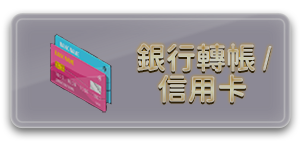
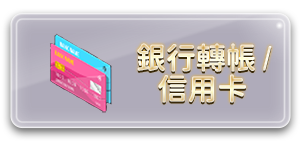
temp6

diff --git a/components/home/RechargeBtns.tsx b/components/home/RechargeBtns.tsx
@@ -14,11 +14,13 @@ function RechargeBtns() {
         <a href="#" onClick={() => toAuthRoute('/recharge-fun')}>
           <img
             src="images/btn_bank.png"
+            data-active-src="images/btn_bank_active.png"
             alt=""
             className="img-responsive center-block hidden-xs"
           />
           <img
             src="images/btn_phone_bank.png"
+            data-active-src="images/btn_phone_bank_active.png"
             alt=""
             className="img-responsive center-block hidden visible-xs"
           />
@@ -29,11 +31,13 @@ function RechargeBtns() {
         <a href="#" onClick={() => toAuthRoute('/recharge-mc?p=1')}>
           <img
             src="/images/btn_mycard.png"
+            data-active-src="images/btn_mycard_active.png"
             alt=""
             className="img-responsive center-block hidden-xs"
           />
           <img
             src="/images/btn_phone_mycard.png"
+            data-active-src="images/btn_phone_mycard_active.png"
             alt=""
             className="img-responsive center-block hidden visible-xs"
           />
@@ -43,11 +47,13 @@ function RechargeBtns() {
         <a href="#" onClick={() => toAuthRoute('/recharge-num')}>
           <img
             src="/images/btn_park.png"
+            data-active-src="images/btn_park_active.png"
             alt=""
             className="img-responsive center-block hidden-xs"
           />
           <img
             src="/images/btn_phone_park.png"
+            data-active-src="images/btn_phone_park_active.png"
             alt=""
             className="img-responsive center-block hidden visible-xs"
           />
@@ -58,11 +64,13 @@ function RechargeBtns() {
         <a href="#" onClick={() => toAuthRoute('/recharge-gift')}>
           <img
             src="/images/btn_gift.png"
+            data-active-src="images/btn_gift_active.png"
             alt=""
             className="img-responsive center-block hidden-xs"
           />
           <img
             src="/images/btn_phone_gift.png"
+            data-active-src="images/btn_phone_gift_active.png"
             alt=""
             className="img-responsive center-block hidden visible-xs"
           />

diff --git a/pages/files.tsx b/pages/files.tsx
@@ -53,6 +53,7 @@ function FilesPage() {
                         >
                           <img
                             src="/images/service/btn_prize.png"
+                            data-active-src="/images/service/btn_prize_active.png"
                             alt=""
                             className="img-responsive center-block"
                           />
@@ -66,6 +67,7 @@ function FilesPage() {
                         >
                           <img
                             src="/images/service/btn_revise.png"
+                            data-active-src="/images/service/btn_revise_active.png"
                             alt=""
                             className="img-responsive center-block"
                           />
@@ -79,6 +81,7 @@ function FilesPage() {
                         >
                           <img
                             src="/images/service/btn_list.png"
+                            data-active-src="/images/service/btn_list_active.png"
                             alt=""
                             className="img-responsive center-block"
                           />

diff --git a/pages/contact.tsx b/pages/contact.tsx
@@ -113,6 +113,7 @@ function ContactPage() {
                         >
                           <img
                             src="/images/service/btn_line.png"
+                            data-active-src="images/service/btn_line_active.png"
                             alt=""
                             className="img-responsive center-block"
                           />
@@ -122,6 +123,7 @@ function ContactPage() {
                         <a href="mailto:megagames815@gmail.com?subject=問題回報&body=請在這裡描述您的問題...">
                           <img
                             src="/images/service/btn_email.png"
+                            data-active-src="images/service/btn_email_active.png"
                             alt="Email"
                             className="img-responsive center-block"
                           />

diff --git a/components/HeaderNav.tsx b/components/HeaderNav.tsx
@@ -377,9 +377,14 @@ function HeaderNav({ pure }: Props) {
                   </li>
                 </ul>
               </li>
-              <li className="px-12">
-                <div className="blue-btn">登入</div>
-              </li>
+              {!user ? (
+                <li className="px-12">
+                  <div className="blue-btn" onClick={() => showLoginPopup()}>
+                    登入
+                  </div>
+                </li>
+              ) : null}
+
               <li className="nav-li-icon">
                 <a
                   href="https://www.facebook.com/Online539"

diff --git a/pages/home.tsx b/pages/home.tsx
@@ -46,7 +46,7 @@ function HomePage() {
       <div className="bg-gradient-to-b from-[#302a55] via-[#2a3c7d] to-[#302a55] container shadow-xl relative">
         <div className="vertical-gold-line absolute left-0 top-0 w-2 min-h-full"></div>
         <div className="vertical-gold-line absolute right-0 top-0 w-2 min-h-full"></div>
-        {/* {canRecharge ? <RechargeBtns /> : null} */}
+        {canRecharge ? <RechargeBtns /> : null}
 
         <NewsBox />
         <EventBanners />

diff --git a/components/home/GameBanners.tsx b/components/home/GameBanners.tsx
@@ -50,7 +50,7 @@ function GameBanners() {
           </ol>
           {/* 轮播（Carousel）项目 */}
           <div className="">
-            <div className="carousel-inner game-banner-inner">
+            <div className="carousel-inner game-banner-inner rounded-2xl shadow-2xl">
               {gameList.map((t, i) => (
                 <div key={t.img} className={cs('item', { active: i === 0 })}>
                   <img

diff --git a/public/js/imghover.js b/public/js/imghover.js
@@ -1,0 +1,14 @@
+document.addEventListener('DOMContentLoaded', function () {
+  const images = document.querySelectorAll('a img')
+
+  images.forEach((img) => {
+    img.addEventListener('mouseenter', function () {
+      this.dataset.originalSrc = this.src
+      this.src = this.dataset.activeSrc
+    })
+
+    img.addEventListener('mouseleave', function () {
+      this.src = this.dataset.originalSrc
+    })
+  })
+})

diff --git a/pages/_app.tsx b/pages/_app.tsx
@@ -151,6 +151,7 @@ j=d.createElement(s),dl=l!='dataLayer'?'&l='+l:'';j.async=true;j.src=
       <script defer src="/js/fancybox.js"></script>
       <script defer src="/js/youtublink.js"></script>
       <script defer src="/js/popup.js"></script>
+      <script defer src="/js/imghover.js"></script>
     </>
   )
 }

diff --git a/components/PageLayout.tsx b/components/PageLayout.tsx
@@ -21,7 +21,7 @@ function PageLayout({ children, pure }: Props) {
       <HeaderNav pure={pure} />
       <div className="h-24"></div>
       {!pure ? <AppDownloadFloat /> : null}
-      {user ? <UserInfoFloat /> : <RechargeFloat />}
+      {user ? <UserInfoFloat /> : null}
 
       {children}
 
